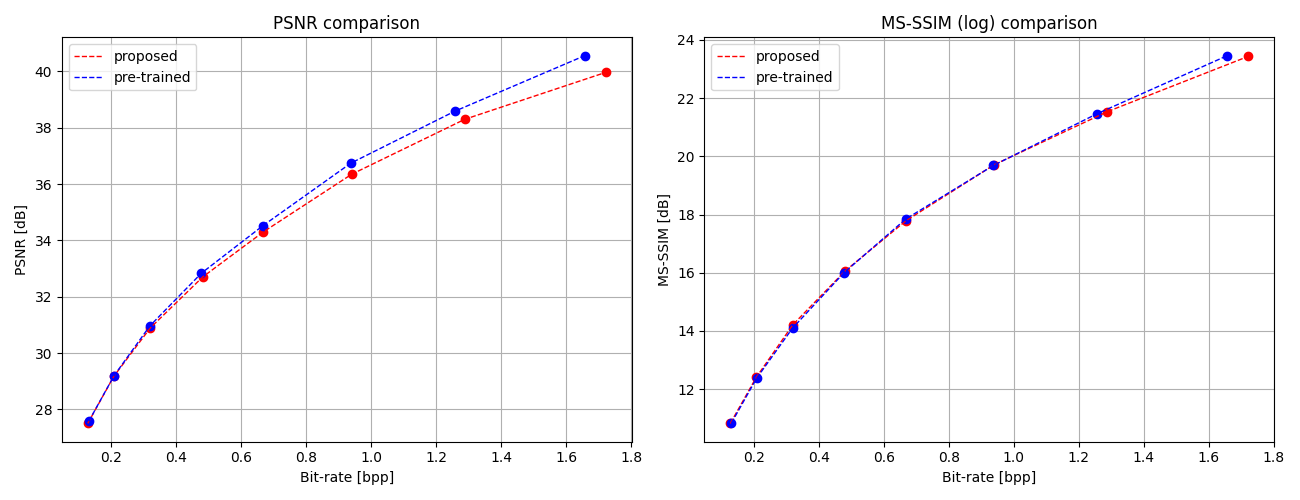
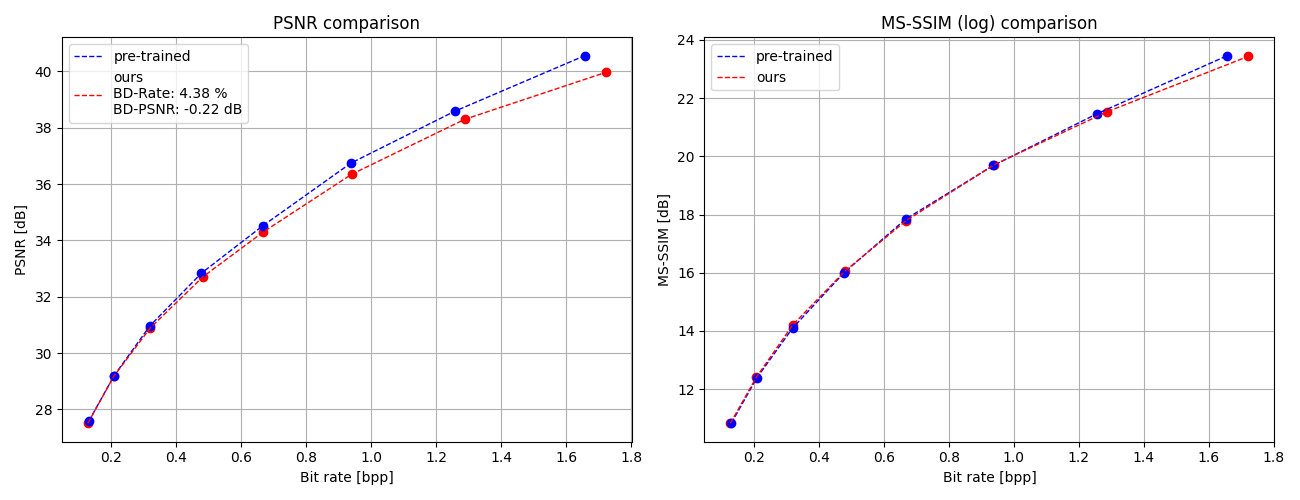
R2: - Improve part 1 - Improve part 2 - Add figures - Update logbook

diff --git a/report_2/src/part_2.tex b/report_2/src/part_2.tex
@@ -1,14 +1,14 @@
 \chapter{Knowledge Distillation}
 \label{part_2}
-\acrfull{kd} is a frugal AI technique known to provide great results. Using the results of a large model at training time, a smaller model can achieve performances which tends towards that of the large model. This chapter focuses on applying \acrshort{kd} to \acrshort{lic}. In order to do that, we first experiment with \acrshort{kd} on auto-encoders for image reconstruction. After achieving satisfactory results, we proceed in implementing \acrshort{kd} for \acrshort{lic}.
+Frugal \acrshort{ai} is an emerging concept that aims to develop models capable of "doing more with less". Frugal models consume less resources while providing great results. \acrfull{kd} is a frugal \acrshort{ai} technique that consists in using the results of a large model to help a smaller model during its training. This model's performance tends towards that of the large model. This chapter focuses on applying \acrshort{kd} to \acrshort{lic}. In order to do that, we first experiment with \acrshort{kd} on auto-encoders for image reconstruction. After achieving satisfactory results, we proceed in implementing \acrshort{kd} for \acrshort{lic}.
 
 \section{Knowledge Distillation for Image Reconstrution}
-As explained by Ballé et al. in \cite{ballé2018variationalimagecompressionscale}, \acrshort{vae}s are very similar to \acrshort{lic} architectures in the sense that they both have some sort of analysis transformation to transfer the input signal to a low dimensional latent space and an approximate of this analysis transform (the synthesis transform) to transfer the latent representation back to the signal space. However, in \cite{minnen2018jointautoregressivehierarchicalpriors}, the authors explain the difference between the two. Compression consists in reducing the entropy of the representation under a prior probability model shared between the sender and the receiver, not only the dimensionality. Achieving performant image compression/decompression is thus more complex than doing standard image reconstruction.
+As explained by Ballé et al. in \cite{ballé2018variationalimagecompressionscale}, \acrshort{vae}s are very similar to \acrshort{lic} architectures in the sense that they both have an analysis transformation to transfer the input signal to a low dimensional latent space and an approximate inverse of this analysis transform (the synthesis transform) to transfer the latent representation back to the signal space. However, in \cite{minnen2018jointautoregressivehierarchicalpriors}, the authors explain the difference between the two. Compression consists in reducing the entropy of the representation under a prior probability model shared between the sender and the receiver, not only the dimensionality. Achieving performant image compression/decompression is thus more complex than doing standard image reconstruction.
 
-In the context of this study, applying \acrshort{kd} to auto-encoders for image reconstruction is a step in the right direction as it is a similar yet easier task than image compression. First, we become acquainted with this technique by implementing it on custom made \acrshort{ae}s. Following that, we apply the same technique to state-of-the-art image compression models used as \acrshort{ae}s.
+In the context of this study, applying \acrshort{kd} to auto-encoders for image reconstruction is a step in the right direction as it is a similar, yet easier task than image compression. First, we become acquainted with this technique by implementing it on custom made \acrshort{ae}s. Following that, we apply the same technique to state-of-the-art image compression models used as \acrshort{ae}s.
 
 \subsection{Custom Auto-encoder}
-The goals of this experiment are straightforward: experimenting \acrshort{kd} on known architectures such as convolutional \acrshort{ae} and assessing the effect of \acrshort{kd}. To do so, we train a large model (the teacher model) and a small model with and without \acrshort{kd}. We expect the model trained with \acrshort{kd} (the student model) to achieve better image reconstruction performance than the other small model. In the best case scenario, the student model would give results similar to that of the teacher model.
+This experiment focuses on experimenting \acrshort{kd} on known architectures such as convolutional \acrshort{ae} and assessing the effect of \acrshort{kd}. To do so, we train a large model (the teacher model) and a small model with and without \acrshort{kd}. We expect the model trained with \acrshort{kd} (the student model) to achieve better image reconstruction performance than the other small model. In the best case scenario, the student model would give results similar to that of the teacher model.
 
 We design the teacher encoder with three stages each containing two convolutions with ReLU followed by a maximum pooling. This is followed by a two-layer fully connected network to achieve a latent space size of 256. The teacher decoder follows the same structure but reversed with transpose convolutions instead of convolutions and up-sampling to replace pooling. The small architecture is analogous with only one convolution (or transpose convolution) per stage.
 
@@ -18,38 +18,38 @@ An interesting experiment to perform would be to create another student architec
 
 \subsection{Scale Hyperprior Model as Auto-encoder}
 \label{part_2:hyperprior}
-With the previous section showing the benefits of \acrshort{kd} for auto-encoders, the hope for this technique to work for image compression increased. Following a step-by-step approach, we first tried to observe similar results with the architectures used for image compression. The goal of the following experiment is to use the state-of-the-art scale hyperprior model as an auto-encoder for image reconstruction. As discussed previously, image reconstruction is very similar to image compression but with no entropy constrain on the latent space. The scale hyperprior model, designed for \acrshort{lic} should reach satisfactory performances on this easier task. The additional benefit of this experiment being that the code used will form a foundation for future experiments focused on \acrshort{lic}.
+With the previous section showing the benefits of \acrshort{kd} for auto-encoders, the hope for this technique to work for image compression increases. Following a step-by-step approach, we first try to observe similar results with the architectures used for image compression. The goal of the following experiment is to use the state-of-the-art scale hyperprior model as an auto-encoder for image reconstruction. As discussed previously, image reconstruction is very similar to image compression but with no entropy constrain on the latent space. The scale hyperprior model, designed for \acrshort{lic} should reach satisfactory performances on this easier task.\footnote{The additional benefit of this experiment being that the code used will form a foundation for future experiments focused on \acrshort{lic}.}
 
 % Optional: KD from scratch...
 
-Now that we are familiar with \acrshort{kd}, we should highlight the importance of the "quality" of the teacher. If we continue the analogy of the teacher and student relationship, it makes sense that a good teacher is more likely to train a good student than a bad teacher. This principle can be applied to \acrshort{kd}. As the student learns partially from the output of the teacher, we must use a powerful teacher network, otherwise the student network will learn poor latent representations as well as reconstructions. In order to achieve the best possible results, we decided to perform the upcoming experiments using pre-trained networks from the compressAI model zoo as teachers. On top of dramatically reducing the training time fro each experiment, it also allow us to easily compare our models to state-ot-the-art results.
+Now that we are familiar with \acrshort{kd}, we should highlight the importance of the "quality" of the teacher. If we continue the analogy of the teacher and student relationship, it makes sense that a good teacher is more likely to train a good student than a bad teacher. This principle can be applied to \acrshort{kd}. As the student learns partially from the output of the teacher, we must use a powerful teacher network, otherwise the student network will learn poor latent representations as well as reconstructions. In order to achieve the best possible results, we decide to perform the upcoming experiments using pre-trained networks from the compressAI model zoo as teachers. On top of dramatically reducing the training time for each experiment, it also allow us to easily compare our models to state-ot-the-art results.
 
-The following experiment consists in training five students models with different architectures. Using the pre-trained scale hyperprior model optimised for MSE with \textsf{quality} set to 5 (which corresponds to 128 channels and a latant space of size 192), we experiment with models with different number of channels. We define five models with 16, 32, 64, 96 and 112 channels\footnote{This decision is mostly driven by our \acrshort{lic} objectives. The reasoning behind it is explained in Section \ref{}} while preserving the size of the latent space. We use the following \acrshort{kd} loss function:
+The following experiment consists in training five students models with different architectures. Using the pre-trained scale hyperprior model optimised for MSE with \textsf{quality} set to 5 (with 128 channels and a latant space of size 192) as teacher, we train models with different number of channels. We define five models with 16, 32, 64, 96 and 112 channels while preserving the size of the latent space. We use the following \acrshort{kd} loss function:
 
 \begin{equation}
-    L = \lambda_{1} MSE(z_{student}, z_{teacher}) + \lambda_{2} MSE(\hat{x}_{student}, \hat{x}_{teacher}) + \lambda_{3} MSE(\hat{x}_{student}, x)
+    L = \lambda_{1}\, MSE(z_{student}, z_{teacher}) + \lambda_{2}\, MSE(\hat{x}_{student}, \hat{x}_{teacher}) + \lambda_{3}\, MSE(\hat{x}_{student}, x)
     \label{loss_1}
 \end{equation}
 
-We use the following parameters: \(\lambda_{1} = 0.2\), \(\lambda_{2} = 0.2\), \(\lambda_{3} = 0.6\) and train the models with the same method as in Chapter \ref{part_1}, meaning: 1000 epochs on the Vimeo90K dataset with a base learning rate of \(10^{-4}\).
+We use the following set of parameters: \(\{\lambda_{1}, \lambda_{2}, \lambda_{3}\} = \{0.2, 0.2, 0.6\}\) and train the models with the method defined in Section \ref{training_method}: 1000 epochs on the Vimeo90K dataset with a base learning rate of \(10^{-4}\).
 
-Figure \ref{kd_ae_1:a} shows reconstructions of image 14 of the Kodak dataset with the teacher and all student networks. As axpected, the teacher (a pre-trained model) propose a reconstructed image virtually undistinguishable from the orignal one. As for the students, eventhough they give visually satisfying results, the models with less parameters do not retain as much details. The reconstructed image appears a little bit blurry. As expected, the more the student architecture is similar to the teacher (that is to say, larger), the more it is able to reach the same performance as the teacher. This is quantitatively measured using MSE on Figure \ref{kd_ae_1:b}.
+Figure \ref{kd_ae_1:a} shows reconstructions of image 14 of the Kodak dataset with the teacher and all student networks. As axpected, the teacher (a pre-trained model) propose a reconstructed image virtually undistinguishable from the orignal one. As for the students, eventhough they give visually satisfying results, the models with less parameters do not retain as much details. The reconstructed image appears a little bit blurry. As expected, the more the student architecture is similar to the teacher (that is to say, more channels), the more it is able to reach the same performance as the teacher. This is quantitatively measured using MSE on Figure \ref{kd_ae_1:b}.
 
 \begin{figure}[H]
     \centering
     \subfloat[Reconstruction results on image 14 of the Kodak dataset with teacher and student architectures.]{\includegraphics[width=8cm]{img/kd_ae_kodak_14.png} \label{kd_ae_1:a}}
     \qquad
-    \subfloat[TODO]{\includegraphics[width=8cm]{img/kd_ae_mse.png} \label{kd_ae_1:b}}
-    \caption[]{}
+    \subfloat[Average \acrshort{mse} curve on the Kodak dataset for students with different number of channels.]{\includegraphics[width=8cm]{img/kd_ae_mse.png} \label{kd_ae_1:b}}
+    \caption[Evaluation on the Kodak dataset of the scale hyperprior student models trained for image reconstruction.]{Evaluation on the Kodak dataset of the scale hyperprior student models trained for image reconstruction. Student models with fewer channels propose less detailed image reconstruction. This is noticeable on single image reconstructions or on average using \acrshort{mse} measures.}
     \label{kd_ae_1}
 \end{figure}
 
-For reference, we show in Figure \ref{kd_ae_2} the \acrshort{rd} performances of the student models. It should be noted that the teacher network used in this experiment was trained for image compression tasks. One could argue that these models are not exactly auto-encoders for image reconstruction. What is sure is that they are far from state-of-the-art models in image compression tasks. What remains to be seen is to what extent a properly defined \acrshort{kd} loss for \acrshort{lic} does increase the \acrshort{rd} performance of these student models. This, as well as discussion related to the benefits of smaller student models for \acrshort{lic}, is the subject of the next section.
+For reference, we show in Figure \ref{kd_ae_2} the \acrshort{rd} performance of the student models. It should be noted that the teacher network used in this experiment was trained for image compression tasks so one could argue that these models are not exactly auto-encoders for image reconstruction. What is sure is that they are far from state-of-the-art models in image compression tasks. What remains to be seen is to what extent a properly defined \acrshort{kd} loss for \acrshort{lic} does increase the \acrshort{rd} performance of these student models. This, as well as discussion related to the benefits of smaller student models for \acrshort{lic}, is the subject of the next section.
 
 \begin{figure}
     \centering
     \includegraphics[width=15cm]{img/kd_ae_rd.png}
-    \caption[Average rate-distortion curve on the Kodak dataset for students with different number of channels.]{Average rate-distortion curve on the Kodak dataset for students with different number of channels.}
+    \caption[Average \acrshort{rd} curve on the Kodak dataset for students with different number of channels.]{Average \acrshort{rd} curve on the Kodak dataset for students with different number of channels. Eventhough they were guided by a \acrshort{lic} model during their training, the student models poorly compares to state-of-the-art models in \acrshort{rd}.}
     \label{kd_ae_2}
 \end{figure}
 
@@ -62,8 +62,8 @@ This part of the study focuses on training scale hyperprior models with \acrshor
 \acrshort{lic} distinguish itself from other computer vision tasks (such as dimensionality reduction) by minimising the entropy of the latent representation. In dimensionality reduction, the latent representation has no practical application. When it comes to image compression, it is the latent representation of the image that will be stored or transmitted. Having the smallest possible entropy allows for a smaller entropy coding which means less bits to handle during practical applications. This is why the rate-distortion loss is used in \acrshort{lic} as it allows to find the correct tradeoff between image quality and bit rate according to the requirements of the application. In order to have similar results with \acrshort{lic}, the previous loss function introduced in Equation \eqref{loss_1} is updated as follow:
 
 \begin{align}
-    L &= \lambda_{1} MSE(z_{student}, z_{teacher}) + \lambda_{2} MSE(\hat{x}_{student}, \hat{x}_{teacher}) + \lambda_{3} RD(z_{student}, \hat{x}_{student}, x)\label{loss_2}\\
-      &= \lambda_{1} MSE(z_{student}, z_{teacher}) + \lambda_{2} MSE(\hat{x}_{student}, \hat{x}_{teacher}) + \lambda_{3} (-E[\log_{2}P_{q}] + \lambda MSE(\hat{x}_{student}, x)) \nonumber
+    L &= \lambda_{1}\, MSE(z_{student}, z_{teacher}) + \lambda_{2}\, MSE(\hat{x}_{student}, \hat{x}_{teacher}) + \lambda_{3}\, RD(z_{student}, \hat{x}_{student}, x)\label{loss_2}\\
+      &= \lambda_{1}\, MSE(z_{student}, z_{teacher}) + \lambda_{2}\, MSE(\hat{x}_{student}, \hat{x}_{teacher}) + \lambda_{3}\, (-E[\log_{2}P_{q}] + \lambda\, MSE(\hat{x}_{student}, x)) \nonumber
 \end{align}
 
 \subsubsection{Architecture Size Tradeoff}

diff --git a/report_2/src/part_1.tex b/report_2/src/part_1.tex
@@ -27,7 +27,7 @@ For this project, we selected the scale hyperprior model introduced in 2018 by B
 
 \subsection{Training Method}
 \label{training_method}
-As experiments parameters are not disclosed in the paper, we use compressAI pre-trained models as our baseline comparison. For fair comparison, we match as best as we can the training method described in the compressAI documentation \cite{compressai_train}. Models were trained between 4 and 5 million steps on 256x256 image patches randomly extracted and cropped from the Vimeo90K dataset. The batch size is 16 or 32 (we choose 16). The initial learning rate is 1e-4 and decreases over time (it is divided by 2 when the evaluation loss reaches a plateau). Two different metrics can be used: MSE or MS-SSIM. We keep the default metric (i.e. MSE) which corresponds to using the following loss function: \(L = \lambda \times 255^{2} \times D + R\) with \(D\) and \(R\) respectively the mean distortion and the mean estimated bit rate. The parameter \(\lambda\) allows to adjust the tradeoff between compression and image quality. Higher values give more importance to distortion encouraging the model to produce reconstructed images with high quality at the expense of bit rate. Inversely, lower values of \(\lambda\) imply more compression and more data loss. CompressAI proposes 8 pre-trained models with different values of \(\lambda\) represented by the argument \textsf{quality}. The correspondance between this argument and the value of \(\lambda\) is summarised in Table \ref{tab_quality_lambda}. It is important to note that the \textsf{quality} argument in compressAI also impacts the network architecture (number of channels and size of the latent space). Pre-trained models with \textsf{quality} lower or equal to 5 have 128 channels and a latent space with 192 dimensions. Other pre-trained models have 192 channels and a larger latent space with 320 components. 
+As experiments parameters are not disclosed in the paper, we use compressAI pre-trained models as our baseline comparison. For fair comparison, we match as best as we can the training method described in the compressAI documentation \cite{compressai_train}. Models were trained between 4 and 5 million steps on 256x256 image patches randomly extracted and cropped from the Vimeo90K dataset. The batch size is 16 or 32 (we choose 16). The initial learning rate is 1e-4 and decreases over time (it is divided by 2 when the evaluation loss reaches a plateau). Two different metrics can be used: MSE or MS-SSIM. We keep the default metric (i.e. MSE) which corresponds to using the following loss function: \(L = \lambda\, 255^{2}\, D + R\) with \(D\) and \(R\) respectively the mean distortion and the mean estimated bit rate. The parameter \(\lambda\) allows to adjust the tradeoff between compression and image quality. Higher values give more importance to distortion encouraging the model to produce reconstructed images with high quality at the expense of bit rate. Inversely, lower values of \(\lambda\) imply more compression and more data loss. CompressAI proposes 8 pre-trained models with different values of \(\lambda\) represented by the argument \textsf{quality}. The correspondance between this argument and the value of \(\lambda\) is summarised in Table \ref{tab_quality_lambda}. It is important to note that the \textsf{quality} argument in compressAI also impacts the network architecture (number of channels and size of the latent space). Pre-trained models with \textsf{quality} lower or equal to 5 have 128 channels and a latent space with 192 dimensions. Other pre-trained models have 192 channels and a larger latent space with 320 components. 
 
 \begin{table}[]
     \centering
@@ -51,7 +51,7 @@ Image compression deals with two caracteristics: image quality and bit rate. In 
 
 \acrshort{rd} curves are a common tool to compare compression codecs and \acrshort{nn} architectures in \acrshort{lic}. It consists in plotting the average distortion in function of the average bit rate evaluated on a set of images. Using a range of \acrshort{rd} tradeoffs allows to easily evaluate and compare the overall \acrshort{rd} performance of an architecture.
 
-These curves can then be used to compute the Bjøntegaard Deltas for both image quality and bit rate, respectively called BD-\acrshort{psnr} and BD-Rate. As explained in \cite{barman2024bjontegaarddeltabdtutorial}, these values represent quality and bit rate differences between two \acrshort{rd} curves using \acrshort{psnr} as distortion metric by measuring the area between the curves. % TODO: more details
+These curves can then be used to compute the Bjøntegaard Deltas for both bit rate and image quality, respectively called BD-Rate and BD-\acrshort{psnr}. As explained in \cite{barman2024bjontegaarddeltabdtutorial}, these values represent bit rate and quality differences between two \acrshort{rd} curves (using \acrshort{psnr} as distortion metric) by measuring the area between the curves. % TODO: more details
 
 \section{State-of-the-art Results Reproduction}
 Reproducing state-of-the-art results is key as it guarantees that our work environnement and methods are correct. This also provides shared baseline results between papers and our work that can be used to compare our future results. This task is divided in two parts. First, we try to train a single model and compare it to other pre-trained models. Then we train several models in order to produce \acrshort{rd} curves.
@@ -100,7 +100,7 @@ Finally, we compare our model to other \acrshort{lic} models accessbible in the 
 \begin{figure}
     \centering
     \includegraphics[width=15cm]{img/balle_repro_rd_1.png}
-    \caption[Comparison to other \acrshort{lic} models (\acrlong{rd}).]{Comparison to other \acrshort{lic} models (\acrlong{rd}). Our version of the scale hyperprior model outperforms all other models in terms of image quality. However, when it comes to \acrshort{bpp}, it delivers poor performance on this specific image.}
+    \caption[Comparison to other \acrshort{lic} models (\acrshort{rd}).]{Comparison to other \acrshort{lic} models (\acrshort{rd}). Our version of the scale hyperprior model outperforms all other models in terms of image quality. However, when it comes to \acrshort{bpp}, it delivers poor performance on this specific image.}
     \label{balle_repro_5}
 \end{figure}
 
@@ -109,7 +109,7 @@ As evaluation on a single image is not representative, we also evaluate our scal
 \begin{figure}
     \centering
     \includegraphics[width=15cm]{img/balle_repro_rd_2.png}
-    \caption[Comparison to pre-trained scale hyperprior models (\acrlong{rd}).]{Comparison to pre-trained scale hyperprior models (\acrlong{rd}). When properly compared to compressAI similar pre-trained models, our model reaches state-of-the-art \acrshort{rd} performance.}
+    \caption[Comparison to pre-trained scale hyperprior models (\acrshort{rd}).]{Comparison to pre-trained scale hyperprior models (\acrshort{rd}). When properly compared to compressAI similar pre-trained models, our model reaches state-of-the-art \acrshort{rd} performance.}
     \label{balle_repro_6}
 \end{figure}
 
@@ -126,7 +126,7 @@ Let us start by passing a single image through the networks. The image from the 
     \centering
     \subfloat[Our networks]{{\includegraphics[width=8.5cm]{img/bdpsnr_kodak_14.png} \label{bdpsnr_1:a}}}
     \subfloat[Pre-trained networks]{{\includegraphics[width=8.5cm]{img/bdpsnr_kodak_14_pretrained.png} \label{bdpsnr_1:b}}}
-    \caption[Reconstruction results on image 14 of the Kodak dataset for different \acrlong{rd} tradeoffs.]{Reconstruction results on image 14 of the Kodak dataset for different \acrlong{rd} tradeoffs. For a given \acrshort{rd} tradeoff, our models produce results visually similar to the pre-trained models. The level of detail increases with the value of \(\lambda\), highlighting the \acrshort{rd} tradeoff.}
+    \caption[Reconstruction results on image 14 of the Kodak dataset for different \acrshort{rd} tradeoffs.]{Reconstruction results on image 14 of the Kodak dataset for different \acrshort{rd} tradeoffs. For a given \acrshort{rd} tradeoff, our models produce results visually similar to the pre-trained models. The level of detail increases with the value of \(\lambda\), highlighting the \acrshort{rd} tradeoff.}
     \label{bdpsnr_1}
 \end{figure}
 
@@ -139,12 +139,12 @@ We can produce \acrshort{rd} curve for this single image (Figure \ref{bdpsnr_2})
     \label{bdpsnr_2}
 \end{figure}
 
-It should be noted that the previous \acrshort{rd} curve corresponds to the results on a single image and thus is not representative of the overall performance of the models. By averaging metrics on the test dataset, we create an average \acrshort{rd} curve for the entire test dataset. This curve is shown in Figure \ref{bdpsnr_3}. Results are similar to those obtained in Figure \ref{bdpsnr_2}: on average, our models are very close to pre-trained models with a little disadvantage when dealing with higher bit rates.
+It should be noted that the previous \acrshort{rd} curve corresponds to the results on a single image and thus is not representative of the overall performance of the models. By averaging metrics on the test dataset, we create an average \acrshort{rd} curve for the entire test dataset. This curve is shown in Figure \ref{bdpsnr_3}. Results are similar to those obtained in Figure \ref{bdpsnr_2}: on average, our models are very close to pre-trained models with a little disadvantage when dealing with higher bit rates. This translates in a BD-Rate of 4.38 \% and a BD-PSNR of -0.22 dB.
 
 \begin{figure}
     \centering
     \includegraphics[width=15cm]{img/bdpsnr_rd.png}
-    \caption[Average \acrlong{rd} curve on the Kodak dataset.]{Average \acrlong{rd} curve on the Kodak dataset. Overall, our models are not as good as the pre-trained models. Ours present higher bit rate for a lower measured image quality, especially for high bit rates.}
+    \caption[Average \acrshort{rd} curve on the Kodak dataset.]{Average \acrshort{rd} curve on the Kodak dataset. Overall, our models are not as good as the pre-trained models. Ours present higher bit rate for a lower measured image quality, especially for high bit rates.}
     \label{bdpsnr_3}
 \end{figure}
 

diff --git a/report_1/src/results.tex b/report_1/src/results.tex
@@ -16,7 +16,7 @@ In a research project, reproducing state of the art results is key. The first th
 
 As experiments parameters are not disclosed in the papers we studied, we try to reproduce results from the compressAI library, taht is to say: achieve the same results as the pre-trained models from the model zoo.
 
-The training method used by compressAI is described in the documentation \cite{compressai_train}. Models were trained between 4 and 5 million steps on 256x256 image patches randomly extracted and cropped from the Vimeo90K dataset. The batch size is 16 or 32 (we choose 16). The initial learning rate is 1e-4 and decreases over time (it is divided by 2 when the evaluation loss reaches a plateau). Two different metrics can be used: MSE or MS-SSIM. We keep the default metric (MSE) which corresponds to using the following loss function: \(L = \lambda * 255^{2} * D + R\) with \(D\) and \(R\) respectively the mean distortion and the mean estimated bit rate. The parameter \(\lambda\) allows to adjust the tradeoff between compression and image quality. Higher values give more importance to distortion encouraging the model to produce reconstructed images with high quality at the expense of bit rate. Inversely, lower values of \(\lambda\) imply more compression and more data loss. CompressAI proposes 8 pre-trained models with different values of \(\lambda\) represented by the argument \textsf{quality}. The correspondance between this argument and the value of \(\lambda\) is summarised in Table \ref{tab}. It is important to note that the \textsf{quality} argument in compressAI also impacts the network architecture.
+The training method used by compressAI is described in the documentation \cite{compressai_train}. Models were trained between 4 and 5 million steps on 256x256 image patches randomly extracted and cropped from the Vimeo90K dataset. The batch size is 16 or 32 (we choose 16). The initial learning rate is 1e-4 and decreases over time (it is divided by 2 when the evaluation loss reaches a plateau). Two different metrics can be used: MSE or MS-SSIM. We keep the default metric (MSE) which corresponds to using the following loss function: \(L = \lambda\, 255^{2}\, D + R\) with \(D\) and \(R\) respectively the mean distortion and the mean estimated bit rate. The parameter \(\lambda\) allows to adjust the tradeoff between compression and image quality. Higher values give more importance to distortion encouraging the model to produce reconstructed images with high quality at the expense of bit rate. Inversely, lower values of \(\lambda\) imply more compression and more data loss. CompressAI proposes 8 pre-trained models with different values of \(\lambda\) represented by the argument \textsf{quality}. The correspondance between this argument and the value of \(\lambda\) is summarised in Table \ref{tab}. It is important to note that the \textsf{quality} argument in compressAI also impacts the network architecture.
 
 \begin{table}[]
     \centering

diff --git a/report_2/src/glossary.tex b/report_2/src/glossary.tex
@@ -18,6 +18,7 @@
 \newacronym{flops}{FLOPS}{Floating-point Operations per Second}
 \newacronym{flop}{FLOP}{Floating-point Operations}
 \newacronym{iot}{IoT}{Internet of Things}
+\newacronym{ai}{AI}{Artificial Intelligence}
 
 % \newglossaryentry{front_end}
 % {

diff --git a/logbook.md b/logbook.md
@@ -425,8 +425,19 @@
   - Update part 2
   - Update figures
 
+## 27/02/2025
+- Report:
+  - Update part 1
+
+## 28/02/2025
+- Report:
+  - Update part 1
+  - Update part 2
+  - Update figures
+- Train TeacherAE and StudentAE models (image reconstruction, student KD)
+  - 298315
+
 ## TODO
-- Do bar plot
 - Do LIC chapter 1
 - Name figures properly
 - Add BD metrics
